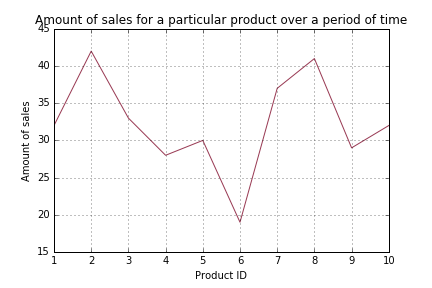
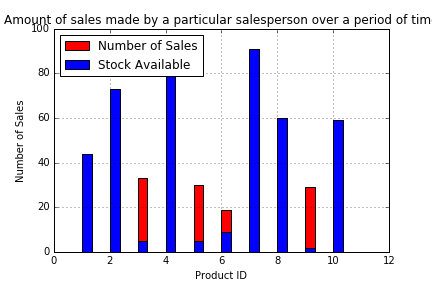
sql user stories get headers in query.py, no hardcoded headers now

diff --git a/qaShared-Python-Friday/src/sqlDatabase/Query.py b/qaShared-Python-Friday/src/sqlDatabase/Query.py
@@ -7,21 +7,38 @@ Created on Tue Sep  6 21:32:30 2016
 
 def query(db, sql):
         """ query(sql): Query accepts an SQL statement as a parameter and 
-            returns the results. """
-        cursor = db.cursor() # Creating the cursor to query the database
-        
+            returns the results. """            
+        # Getting the header:
+        cursorHeader = db.cursor() # Creating the cursor to query the database
         try:
-            cursor.execute(sql)
+            cursorHeader.execute(sql)
+            db.commit()
+        except:
+            db.rollback()
+        header = []
+        # Add column names to header
+        for x in range(0, len(cursorHeader.description)):
+            header.append(cursorHeader.description[x][0])
+        cursorHeader.close()  
+        
+        # Getting the query result:
+        cursorResults = db.cursor() # Creating the cursor to query the database
+        try:
+            cursorResults.execute(sql)
             db.commit()
         except:
             db.rollback()
             
-        results = cursor.fetchall()
+        results = cursorResults.fetchall()
         queryResult = []
+        print (header) # Print the header first
+        # Printing the query results:
         for row in results:
             toPrint = []
-            queryResult.append([row])
+            queryResult.append(row) # changed from [row] to row
             for i in range(0, len(row)):
                 toPrint.append([row[i]])
             print (toPrint)
-        return results # was queryResults
+        # Putting the header at the start of the results
+        queryResult.insert(0, header)
+        return queryResult # was queryResults

diff --git a/qaShared-Python-Friday/src/UserStories/userStory16.py b/qaShared-Python-Friday/src/UserStories/userStory16.py
@@ -23,32 +23,33 @@ def userStory16(db, GUI, startDate, endDate):
     ids = []
     totals = [] 
     amounts = []
-    for r in range(0, len(queryResults)):
+    
+    for r in range(1, len(queryResults)):
         ids.append(queryResults[r][0])
         totals.append(queryResults[r][1])
         amounts.append(queryResults[r][2])
     
+    print (len(ids))    
+    print (len(totals))
+    print (len(amounts))    
+    
     # dates ratings product
     print ("Plotting the data...")
-    plt.plot(ids, totals, amounts, "#993A54")
-    plt.legend(loc=1)
-    plt.xlabel('Date (YYYY-MM-DD)')
-    plt.xticks(rotation=45)
+    width = 0.35       # the width of the bars
+    plt.bar(ids, totals, width, color='r')
+    plt.bar(ids, amounts, width, color='b')
+    #plt.plot(ids, totals)
+    #plt.plot(ids, amounts)
+    plt.legend(['Number of Sales', 'Stock Available'], loc='upper left')
+    plt.xlabel('Product ID')
     plt.ylabel('Number of Sales')
     plt.title('Amount of sales made by a particular salesperson over a period of time')
     plt.grid(True)
-    #plt.savefig("C:\\Users\\Administrator\\Desktop\\qaShared-python-20160907T080629Z\\qaShared-python\\qaShared-python\\for git\\Image Files\\userStory16.png")
     plt.savefig("assets\\graph.png")        
-    plt.show()    
-    
-    header = ("ProductID","NumberSold","NumberInStock")
-    results = []
-    results.append(header)
-    for x in range(0, len(queryResults)):
-        results.append(queryResults[x])
+    plt.show()
         
     # If GUI return the data
     if (GUI):
-        return results
+        return queryResults
     else:
-        exportToCSV(results)
+        exportToCSV(queryResults)

diff --git a/qaShared-Python-Friday/src/UserStories/userStory14.py b/qaShared-Python-Friday/src/UserStories/userStory14.py
@@ -24,14 +24,14 @@ def userStory14(db, GUI, startDate, endDate, employeeID):
     
     dates = []
     totals = []        
-    for r in range(0, len(queryResults)):
+    for r in range(1, len(queryResults)):
         dates.append(queryResults[r][1])
         totals.append(queryResults[r][2])      
     
     if (len(queryResults) == 0):
         print ("There is no sales data available for this employee for the specified timeframe.")
         if (GUI):
-            results = ["There is no sales data available for this employee for the specified timeframe."]
+            queryResults = ["There is no sales data available for this employee for the specified timeframe."]
     else:
         # dates ratings product
         print ("Plotting the data...")
@@ -46,14 +46,8 @@ def userStory14(db, GUI, startDate, endDate, employeeID):
         plt.savefig("assets\\graph.png")
         plt.show()
         
-    header = ("EmployeeID","OrderCreationDate","OrderTotal")
-    results = []
-    results.append(header)
-    for x in range(0, len(queryResults)):
-        results.append(queryResults[x])
-
     # If GUI return the data
     if (GUI):
-        return results
+        return queryResults
     else:
-        exportToCSV(results)
+        exportToCSV(queryResults)

diff --git a/qaShared-Python-Friday/src/UserStories/userStory1.py b/qaShared-Python-Friday/src/UserStories/userStory1.py
@@ -10,25 +10,17 @@ from sqlDatabase.SQLQueries import queries
 from sqlDatabase.Query import query
 
 def userStory1(db, GUI, startDate, endDate):
-    """ useCase1: Accepts parameter 'period' which is a period, 1-4 """
-    
-    print ("USERSTORY1")    
-    
+    """ useCase1: Accepts parameter 'period' which is a period, 1-4 """    
     # If called in terminal program, get user to set input:        
     if (not GUI):
         startDate = input("Please enter the start date (YYYY-MM-DD): ")
         endDate = input("Please enter the end date (YYYY-MM-DD): ")    
     
     sqlParse = queries[1] % (startDate, endDate)
-    results = []
     sql = sqlParse
-    header = ("EmployeeID","Firstname","LastName","SalesTotal")
     queryResults = query(db, sql)
-    results.append(header)
-    for x in range(0, len(queryResults)):
-        results.append(queryResults[x])
     # If GUI return the data
     if (GUI):
-        return results
+        return queryResults
     else:
-        exportToCSV(results)
+        exportToCSV(queryResults)

diff --git a/qaShared-Python-Friday/src/UserStories/userStory13.py b/qaShared-Python-Friday/src/UserStories/userStory13.py
@@ -21,8 +21,8 @@ def userStory13(db, GUI, startDate, endDate):
         queryResults = query(db, sql)
         
         products = []
-        totals = []        
-        for r in range(0, len(queryResults)):
+        totals = []
+        for r in range(1, len(queryResults)):
             products.append(queryResults[r][0])
             totals.append(queryResults[r][1])
         
@@ -35,15 +35,9 @@ def userStory13(db, GUI, startDate, endDate):
         plt.savefig("assets\\graph.png")
         plt.show()
         
-        header = ("ProductID","NumberOfSales")
-        results = []
-        results.append(header)
-        for x in range(0, len(queryResults)):
-            results.append(queryResults[x])
-        
         # If GUI return the data
         if (GUI):
-            return results
+            return queryResults
         else:
-            exportToCSV(results)
+            exportToCSV(queryResults)
     

diff --git a/qaShared-Python-Friday/src/UserStories/userStory3.py b/qaShared-Python-Friday/src/UserStories/userStory3.py
@@ -17,16 +17,10 @@ def userStory3(db, GUI, amount, startDate, endDate):
         endDate = input("Please enter the end date (YYYY-MM-DD): ")
           
     sqlParse = queries[3] % (startDate, endDate, amount)
-    header = ("CustomerID","Firstname","LastName","SpendingTotal")
-    results = []
     sql = sqlParse
     queryResults = query(db, sql) 
-    results.append(header)
-    for x in range(0, len(queryResults)):
-        results.append(queryResults[x])
-    
     # If GUI return the data
     if (GUI):
-        return results
+        return queryResults
     else:
-        exportToCSV(results)
+        exportToCSV(queryResults)

diff --git a/qaShared-Python-Friday/src/UserStories/userStory12.py b/qaShared-Python-Friday/src/UserStories/userStory12.py
@@ -15,16 +15,10 @@ def userStory12(db, GUI, productID):
         productID = input("Please enter the productID: ") 
     
     sqlParse = queries[12] % (productID)
-    header = ("NumberOfProductsInInventory")
-    results = []
     sql = sqlParse
-    queryResults = query(db, sql) 
-    results.append(header)
-    for x in range(0, len(queryResults)):
-        results.append(queryResults[x])
-        
+    queryResults = query(db, sql)  
     # If GUI return the data
     if (GUI):
-        return results
+        return queryResults
     else:
-        exportToCSV(results)
+        exportToCSV(queryResults)

diff --git a/qaShared-Python-Friday/src/UserStories/userStory5.py b/qaShared-Python-Friday/src/UserStories/userStory5.py
@@ -17,16 +17,10 @@ def userStory5(db, GUI, startDate, endDate, productID):
         productID = input("Please enter the productID: ") 
     
     sqlParse = queries[5] % (startDate, endDate, productID)
-    header = ("ProductID","ReturnOnInvestment")
-    results = []
     sql = sqlParse
     queryResults = query(db, sql) 
-    results.append(header)
-    for x in range(0, len(queryResults)):
-        results.append(queryResults[x])
-    
     # If GUI return the data
     if (GUI):
-        return results
+        return queryResults
     else:
-        exportToCSV(results)
+        exportToCSV(queryResults)

diff --git a/qaShared-Python-Friday/src/UserStories/userStory2.py b/qaShared-Python-Friday/src/UserStories/userStory2.py
@@ -16,14 +16,9 @@ def userStory2(db, GUI, startDate, endDate):
         endDate = input("Please enter the end date (YYYY-MM-DD): ")
         
     sqlParse = queries[2] % (startDate, endDate)
-    header = ("CustomerID","Firstname","LastName","SpendingTotal")
-    results = []
     sql = sqlParse
     queryResults = query(db, sql) 
-    results.append(header)
-    for x in range(0, len(queryResults)):
-        results.append(queryResults[x])
     if (GUI):  # If GUI return the data
-        return results
+        return queryResults
     else:
-        exportToCSV(results)
+        exportToCSV(queryResults)

diff --git a/qaShared-Python-Friday/src/UserStories/userStory4.py b/qaShared-Python-Friday/src/UserStories/userStory4.py
@@ -16,15 +16,10 @@ def userStory4(db, GUI, startDate, endDate):
         endDate = input("Please enter the end date (YYYY-MM-DD): ")           
     
     sqlParse = queries[4] % (startDate, endDate)
-    header = ("CustomerSpending","CostForCompany")
-    results = []
     sql = sqlParse
     queryResults = query(db, sql) 
-    results.append(header)
-    for x in range(0, len(queryResults)):
-        results.append(queryResults[x])
     # If GUI return the data
     if (GUI):
-        return results
+        return queryResults
     else:
-        exportToCSV(results)
+        exportToCSV(queryResults)

diff --git a/qaShared-Python-Friday/src/UserStories/userStory6.py b/qaShared-Python-Friday/src/UserStories/userStory6.py
@@ -17,16 +17,10 @@ def userStory6(db, GUI, startDate, endDate):
         endDate = input("Please enter the end date (YYYY-MM-DD): ") 
     
     sqlParse = queries[6] % (startDate, endDate)
-    header = ("AverageTimeToFullfillOrder(days)")
-    results = []
     sql = sqlParse
     queryResults = query(db, sql) 
-    results.append(header)
-    for x in range(0, len(queryResults)):
-        results.append(queryResults[x])
-        
     # If GUI return the data
     if (GUI):
-        return results
+        return queryResults
     else:
-        exportToCSV(results)
+        exportToCSV(queryResults)
